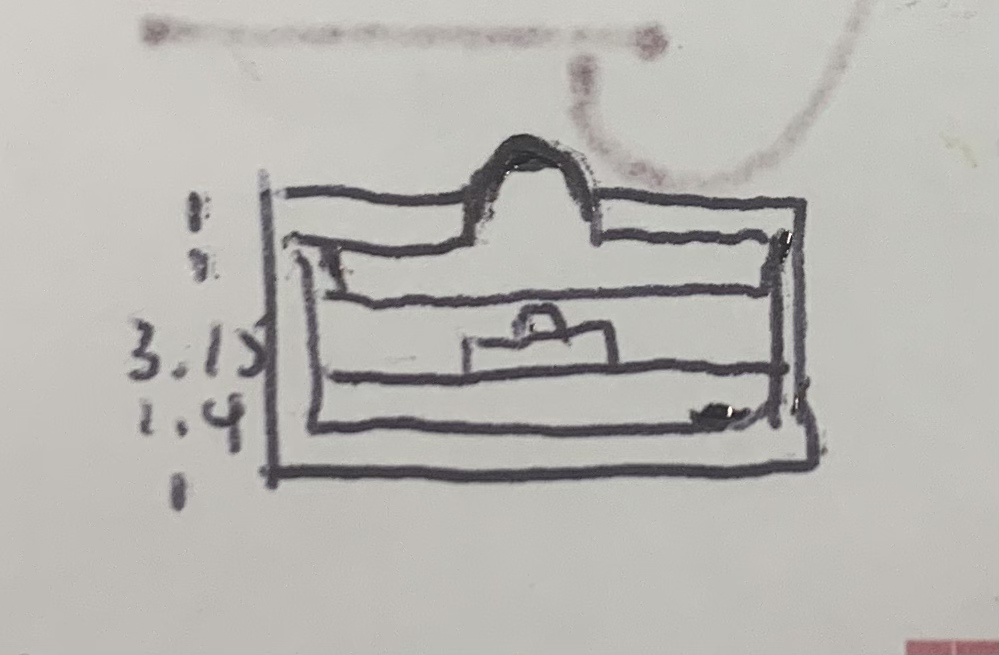
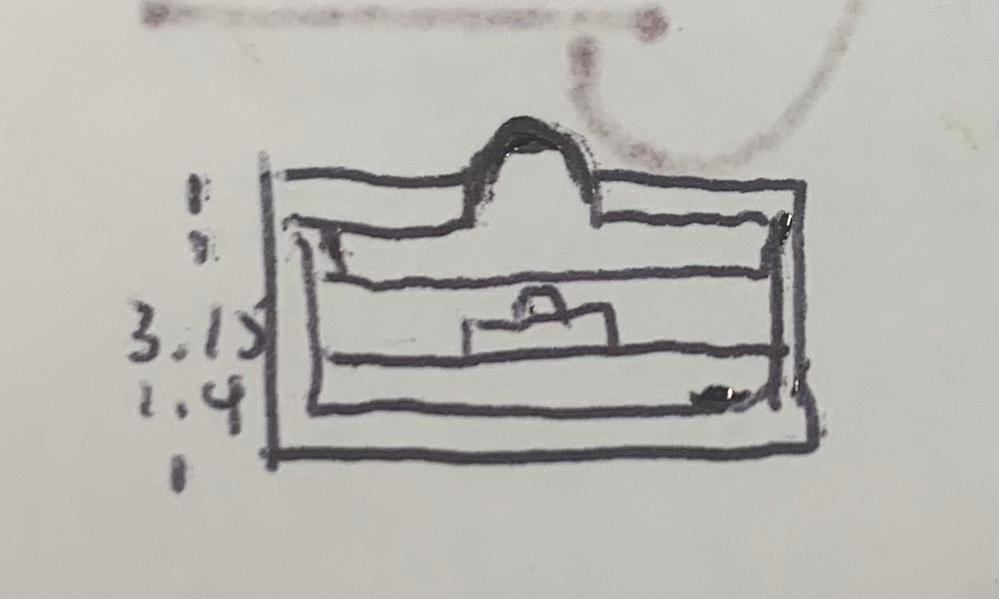
1

diff --git a/index.html b/index.html
@@ -63,7 +63,7 @@
             <h2>Movable Keys</h2>
             <!-- <p>A LEGO brick set that can create happy memories, featuring circuit boards with a variety of modular components such as lighting, vibration, recording, pressure, electronic screens, fans, etc.</p> -->
             <p>Insight: I always find it difficult to remember the position of each key, so I want to design a toy that allows me to play by arranging the keys. This would give me a greater sense of space while playing music.</p>
-            <p>Idea: A toy that can play different music by changing the positions of the piano key blocks. Each piano key block contains a piano sound. When the block is placed on the tray, it will play its sound in sequence according to the arrangement.</p>
+            <p>Idea: A toy that can play different music by changing the positions of the key boxs. Each piano key block contains a piano sound. When the block is placed on the tray, it will play its sound in sequence according to the arrangement.</p>
             <h3>Code logic</h3>
             <p>1. After pressing the tray button, the piano key blocks will play the audio sequentially according to their positions. Each key slot on the tray is attached with a different number of magnets (for example, the first position has one magnet, the second position has two magnets, and so on). When the button on the tray is pressed, the connected ESP board sends information to each ESP board, signaling the start of the overall response. Each piano key block has four capacitors, which can sense the number of magnets and thus determine its position on the tray. For each subsequent position, the audio playback is delayed by 1 second (for example, the first piano key block plays the audio immediately, while the second piano key block waits for one second before playing the audio).</p>
             <p>2. Each piano key block stores different audio files in the DFPlayer. When the button on the key block is pressed, the corresponding audio of that key block will play.</p>
